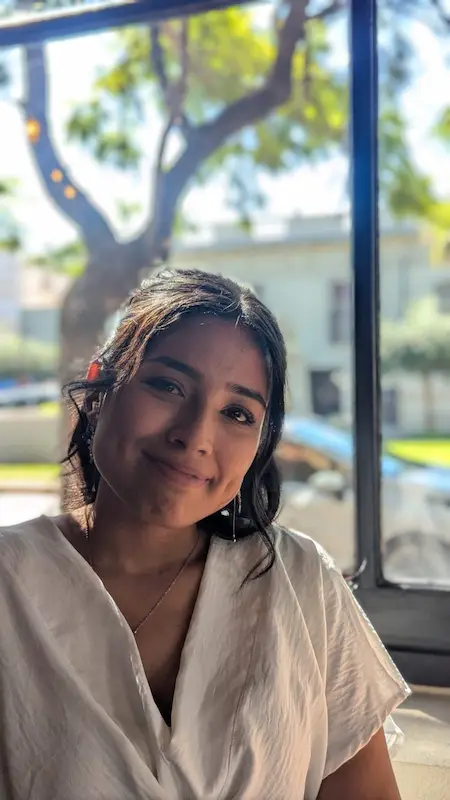
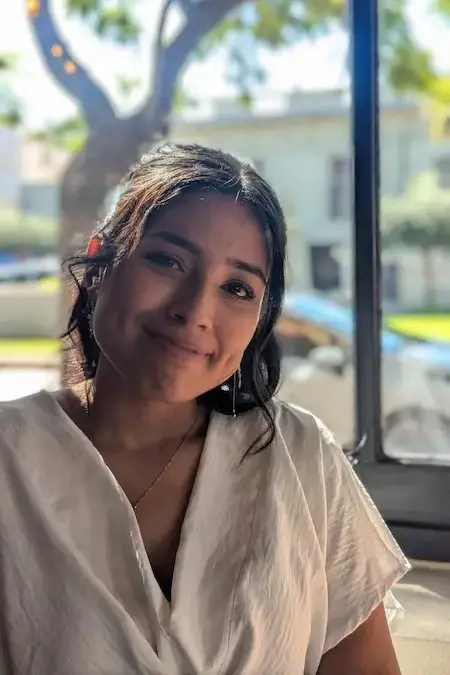
Added changes

diff --git a/project/about.html b/project/about.html
@@ -36,11 +36,11 @@
             <h2>History</h2>
             <div class="figure">
                 <figure>
-                    <img src="images/fernando.webp" loading="lazy" alt="Fernando" height="650">
+                    <img src="images/fernando.webp" loading="lazy" alt="Fernando">
                     <figcaption>Fernando Wendt - Student</figcaption>
                 </figure>
                 <figure>
-                    <img src="images/margarita.webp" loading="lazy" alt="Margarita" height="650">
+                    <img src="images/margarita.webp" loading="lazy" alt="Margarita">
                     <figcaption>Margarita Wendt - Student</figcaption>
                 </figure>
             </div>
